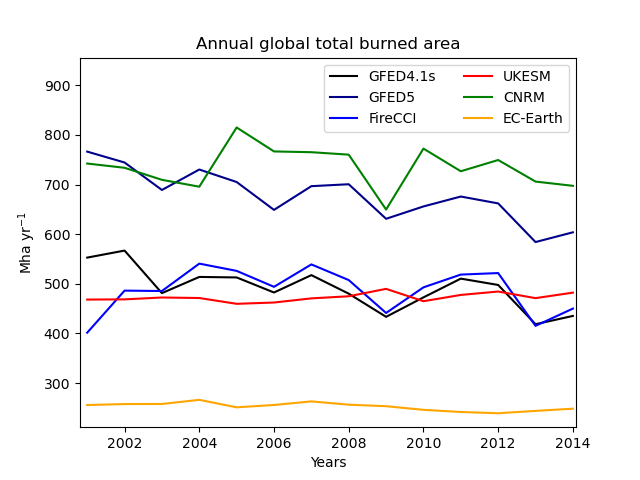
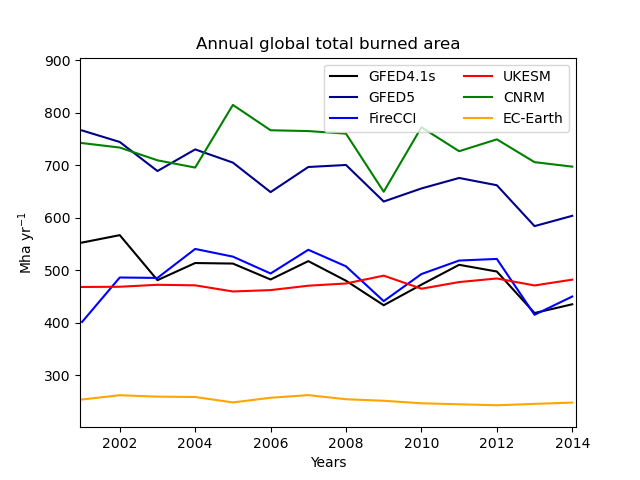
Updating with another EC-Earth ensemble member from CNR

diff --git a/BA_MAPS.py b/BA_MAPS.py
@@ -129,7 +129,11 @@ CNRM = CNRM.collapsed('time', iris.analysis.MEAN)
 
 ### ECEarth ###
 # Aggregate monthly data to get annual total. Find mean over 2001-2014
-# Only using 2 ensemble members for now. r1i1p1f1 is missing 2010-2013, and data not yet available from Lund
+# Only using 3 ensemble members for now. Data not yet available from Lund
+ECEarth1 = iris.load(folder+'burntFractionAll*EC-Earth3*r1i1p1f1*.nc', var_constraint)
+for cube in ECEarth1:
+    cube.attributes = None
+ECEarth1 = ECEarth1.concatenate_cube()
 ECEarth2 = iris.load(folder+'burntFractionAll*EC-Earth3*r3i1p1f1*.nc', var_constraint)
 for cube in ECEarth2:
     cube.attributes = None
@@ -139,7 +143,7 @@ for cube in ECEarth3:
     cube.attributes = None
 ECEarth3 = ECEarth3.concatenate_cube()
 
-ECEarth = (ECEarth2 + ECEarth3)/2
+ECEarth = (ECEarth1 + ECEarth2 + ECEarth3)/3
 ECEarth = ECEarth.extract(date)  
 iris.coord_categorisation.add_year(ECEarth, 'time', name='year')
 ECEarth = ECEarth.aggregated_by(['year'],iris.analysis.SUM)
@@ -259,21 +263,21 @@ def make_plot(projection_name, projection_crs):
     iplt.pcolormesh(ECEarth, cmap=cmap, norm=norm )
     plt.gca().coastlines()
     plt.title("EC-Earth", fontsize=12)
-    plt.colorbar(orientation='horizontal', label='Burned Fraction (% yr$^{-1}$)')
+    plt.colorbar(orientation='horizontal')
 
     ax = plt.subplot(4,3,11)
     mesh = iplt.pcolormesh(diff5, cmap='RdBu_r', vmin=-20, vmax=20 )
     plt.gca().coastlines()
     plt.title("Difference EC-Earth-GFED4.1s", fontsize=12)
-    plt.colorbar(orientation='horizontal', label='Difference in Burned Fraction (% yr$^{-1}$)')
+    plt.colorbar(orientation='horizontal')
 
     ax = plt.subplot(4,3,12)
     mesh = iplt.pcolormesh(diff6, cmap='RdBu_r', vmin=-20, vmax=20 )
     plt.gca().coastlines()
     plt.title("Difference EC-Earth-GFED5", fontsize=12)
-    plt.colorbar(orientation='horizontal', label='Difference in Burned Fraction (% yr$^{-1}$)')
+    plt.colorbar(orientation='horizontal')
 
-    plt.suptitle('2001-2014 Burned Area')
+    plt.suptitle('2001-2014 Annual Mean Burned Area Percentage')
     plt.show()
             
 def main():

diff --git a/Emissions_TS.py b/Emissions_TS.py
@@ -131,6 +131,12 @@ CNRM = CollapseToTimeseries(CNRM)
 
 
 ### ECEarth ###
+ECEarth1 = iris.load(folder+'fFire*EC-Earth3*r1i1p1f1*.nc', var_constraint)
+for cube in ECEarth1:
+    cube.attributes = None
+ECEarth1 = ECEarth1.concatenate_cube()
+ECEarth1 = ECEarth1.extract(date)  
+
 ECEarth2 = iris.load(folder+'fFire*EC-Earth3*r3i1p1f1*.nc', var_constraint)
 for cube in ECEarth2:
     cube.attributes = None
@@ -143,7 +149,7 @@ for cube in ECEarth3:
 ECEarth3 = ECEarth3.concatenate_cube()
 ECEarth3 = ECEarth3.extract(date)  
 
-ECEarth = (ECEarth2 + ECEarth3)/2
+ECEarth = (ECEarth1 + ECEarth2 + ECEarth3)/3
 iris.coord_categorisation.add_year(ECEarth, 'time', name='year')
 ECEarth = ECEarth.aggregated_by(['year'],iris.analysis.SUM)*1E6
 LandFrac = iris.load_cube('/scratch/cburton/scratch/OptimESM/sftlf_fx_EC-Earth3-ESM-1_esm-hist_r5i1p1f1_gr.nc', 'sftlf')/100

diff --git a/BA_TS.py b/BA_TS.py
@@ -132,6 +132,10 @@ CNRM = CNRM*LandFrac
 
 ### ECEarth ###
 #Need to divide land fraction by 100
+ECEarth1 = iris.load(folder+'burntFractionAll*EC-Earth3*r1i1p1f1*.nc', var_constraint)
+for cube in ECEarth1:
+    cube.attributes = None
+ECEarth1 = ECEarth1.concatenate_cube()
 ECEarth2 = iris.load(folder+'burntFractionAll*EC-Earth3*r3i1p1f1*.nc', var_constraint)
 for cube in ECEarth2:
     cube.attributes = None
@@ -141,7 +145,7 @@ for cube in ECEarth3:
     cube.attributes = None
 ECEarth3 = ECEarth3.concatenate_cube()
 
-ECEarth = (ECEarth2 + ECEarth3)/2
+ECEarth = (ECEarth1 + ECEarth2 + ECEarth3)/3
 ECEarth = ECEarth.extract(date)  
 iris.coord_categorisation.add_year(ECEarth, 'time', name='year')
 ECEarth = ECEarth.aggregated_by(['year'],iris.analysis.SUM)/100
